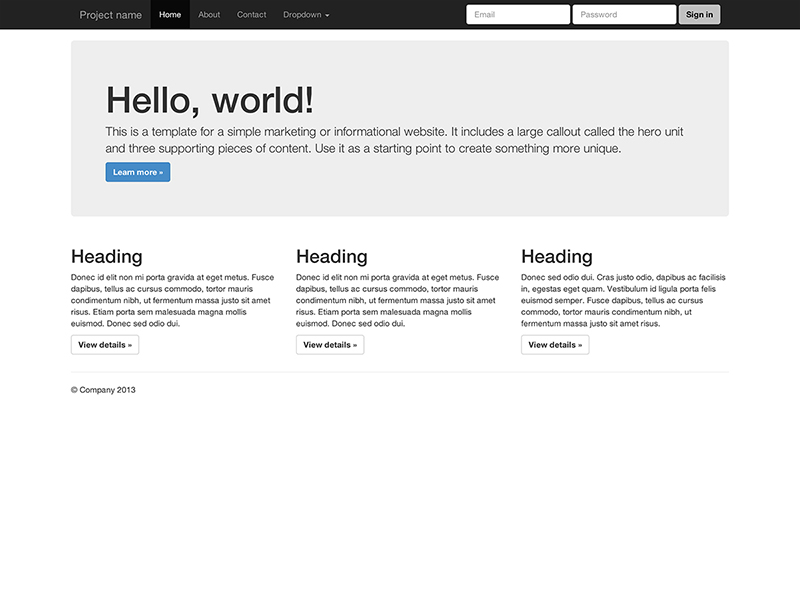
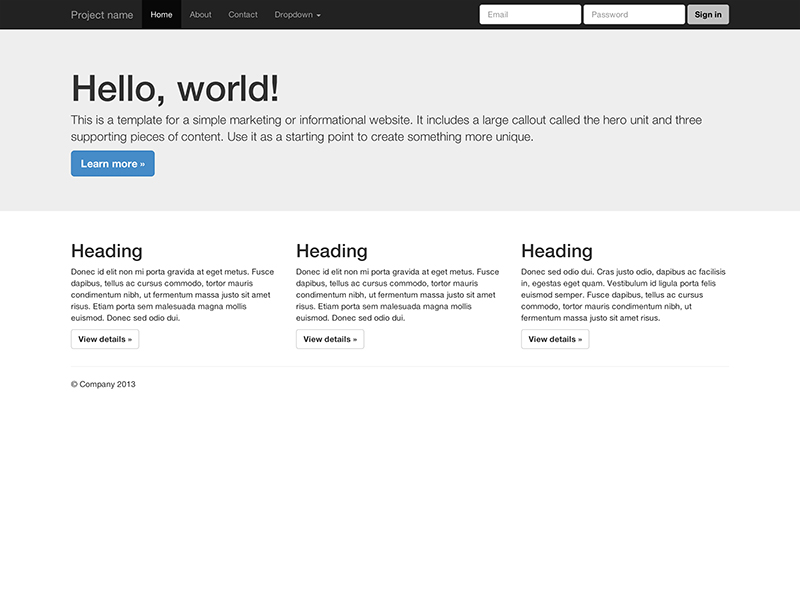
Update jumbotron
* Defaults to no rounded corners and full width in the viewport
* When in a container, the jumbotron has extra padding and will have
rounded corners
* Updates default jumbotron example to show the full width default
display

Fixes #9759.

diff --git a/components.html b/components.html
@@ -1768,19 +1768,23 @@ body { padding-bottom: 70px; }
     <div class="page-header">
       <h1 id="jumbotron">Jumbotron</h1>
     </div>
-    <p>A lightweight, flexible component to showcase key content on your site. It works well on marketing and content-heavy sites.</p>
+    <p>A lightweight, flexible component that can optional extend the entire viewport to showcase key content on your site. To make the jumbotron full width, don't include it within a <code>.container</code>. Placing it within a container will keep it at the width of the rest of your content and provide rounded corners.</p>
     <div class="bs-example">
       <div class="jumbotron">
-        <h1>Hello, world!</h1>
-        <p>This is a simple hero unit, a simple jumbotron-style component for calling extra attention to featured content or information.</p>
-        <p><a class="btn btn-primary btn-lg">Learn more</a></p>
+        <div class="container">
+          <h1>Hello, world!</h1>
+          <p>This is a simple hero unit, a simple jumbotron-style component for calling extra attention to featured content or information.</p>
+          <p><a class="btn btn-primary btn-lg">Learn more</a></p>
+        </div>
       </div>
     </div>
 {% highlight html %}
 <div class="jumbotron">
-  <h1>Hello, world!</h1>
-  <p>...</p>
-  <p><a class="btn btn-primary btn-lg">Learn more</a></p>
+  <div class="container">
+    <h1>Hello, world!</h1>
+    <p>...</p>
+    <p><a class="btn btn-primary btn-lg">Learn more</a></p>
+  </div>
 </div>
 {% endhighlight %}
   </div>

diff --git a/less/jumbotron.less b/less/jumbotron.less
@@ -4,13 +4,14 @@
 
 
 .jumbotron {
-  padding: 30px;
+  padding: 30px 15px;
   margin-bottom: 30px;
   font-size: (@font-size-base * 1.5);
   font-weight: 200;
   line-height: (@line-height-base * 1.5);
   color: @jumbotron-lead-color;
   background-color: @jumbotron-bg;
+
   h1 {
     line-height: 1;
     color: @jumbotron-heading-color;
@@ -19,9 +20,19 @@
     line-height: 1.4;
   }
 
+  .container & {
+    border-radius: @border-radius-large; // Only round corners at higher resolutions if contained in a container
+  }
+
   @media screen and (min-width: @screen-tablet) {
-    padding: 50px 60px;
-    border-radius: @border-radius-large; // Only round corners at higher resolutions
+    padding-top: 50px;
+    padding-bottom: 50px;
+
+    .container & {
+      padding-left: 60px;
+      padding-right: 60px;
+    }
+
     h1 {
       font-size: (@font-size-base * 4.5);
     }

diff --git a/examples/jumbotron-narrow/jumbotron-narrow.css b/examples/jumbotron-narrow/jumbotron-narrow.css
@@ -31,10 +31,11 @@ body {
   border-top: 1px solid #e5e5e5;
 }
 
-/* Custom container */
-.container-narrow {
-  margin: 0 auto;
-  max-width: 700px;
+/* Customize container */
+@media (min-width: 768px) {
+  .container {
+    max-width: 730px;
+  }
 }
 .container-narrow > hr {
   margin: 30px 0;

diff --git a/examples/jumbotron/index.html b/examples/jumbotron/index.html
@@ -59,15 +59,16 @@
       </div>
     </div>
 
-    <div class="container">
-
-      <!-- Main jumbotron for a primary marketing message or call to action -->
-      <div class="jumbotron">
+    <!-- Main jumbotron for a primary marketing message or call to action -->
+    <div class="jumbotron">
+      <div class="container">
         <h1>Hello, world!</h1>
         <p>This is a template for a simple marketing or informational website. It includes a large callout called the hero unit and three supporting pieces of content. Use it as a starting point to create something more unique.</p>
         <p><a class="btn btn-primary btn-lg">Learn more &raquo;</a></p>
       </div>
+    </div>
 
+    <div class="container">
       <div class="body-content">
 
         <!-- Example row of columns -->

diff --git a/examples/jumbotron/jumbotron.css b/examples/jumbotron/jumbotron.css
@@ -13,10 +13,6 @@ body {
 
 /* Responsive: Portrait tablets and up */
 @media screen and (min-width: 768px) {
-  /* Let the jumbotron breathe */
-  .jumbotron {
-    margin-top: 20px;
-  }
   /* Remove padding from wrapping element since we kick in the grid classes here */
   .body-content {
     padding: 0;

diff --git a/examples/jumbotron-narrow/index.html b/examples/jumbotron-narrow/index.html
@@ -18,7 +18,7 @@
 
   <body>
 
-    <div class="container-narrow">
+    <div class="container">
       <div class="header">
         <ul class="nav nav-pills pull-right">
           <li class="active"><a href="#">Home</a></li>